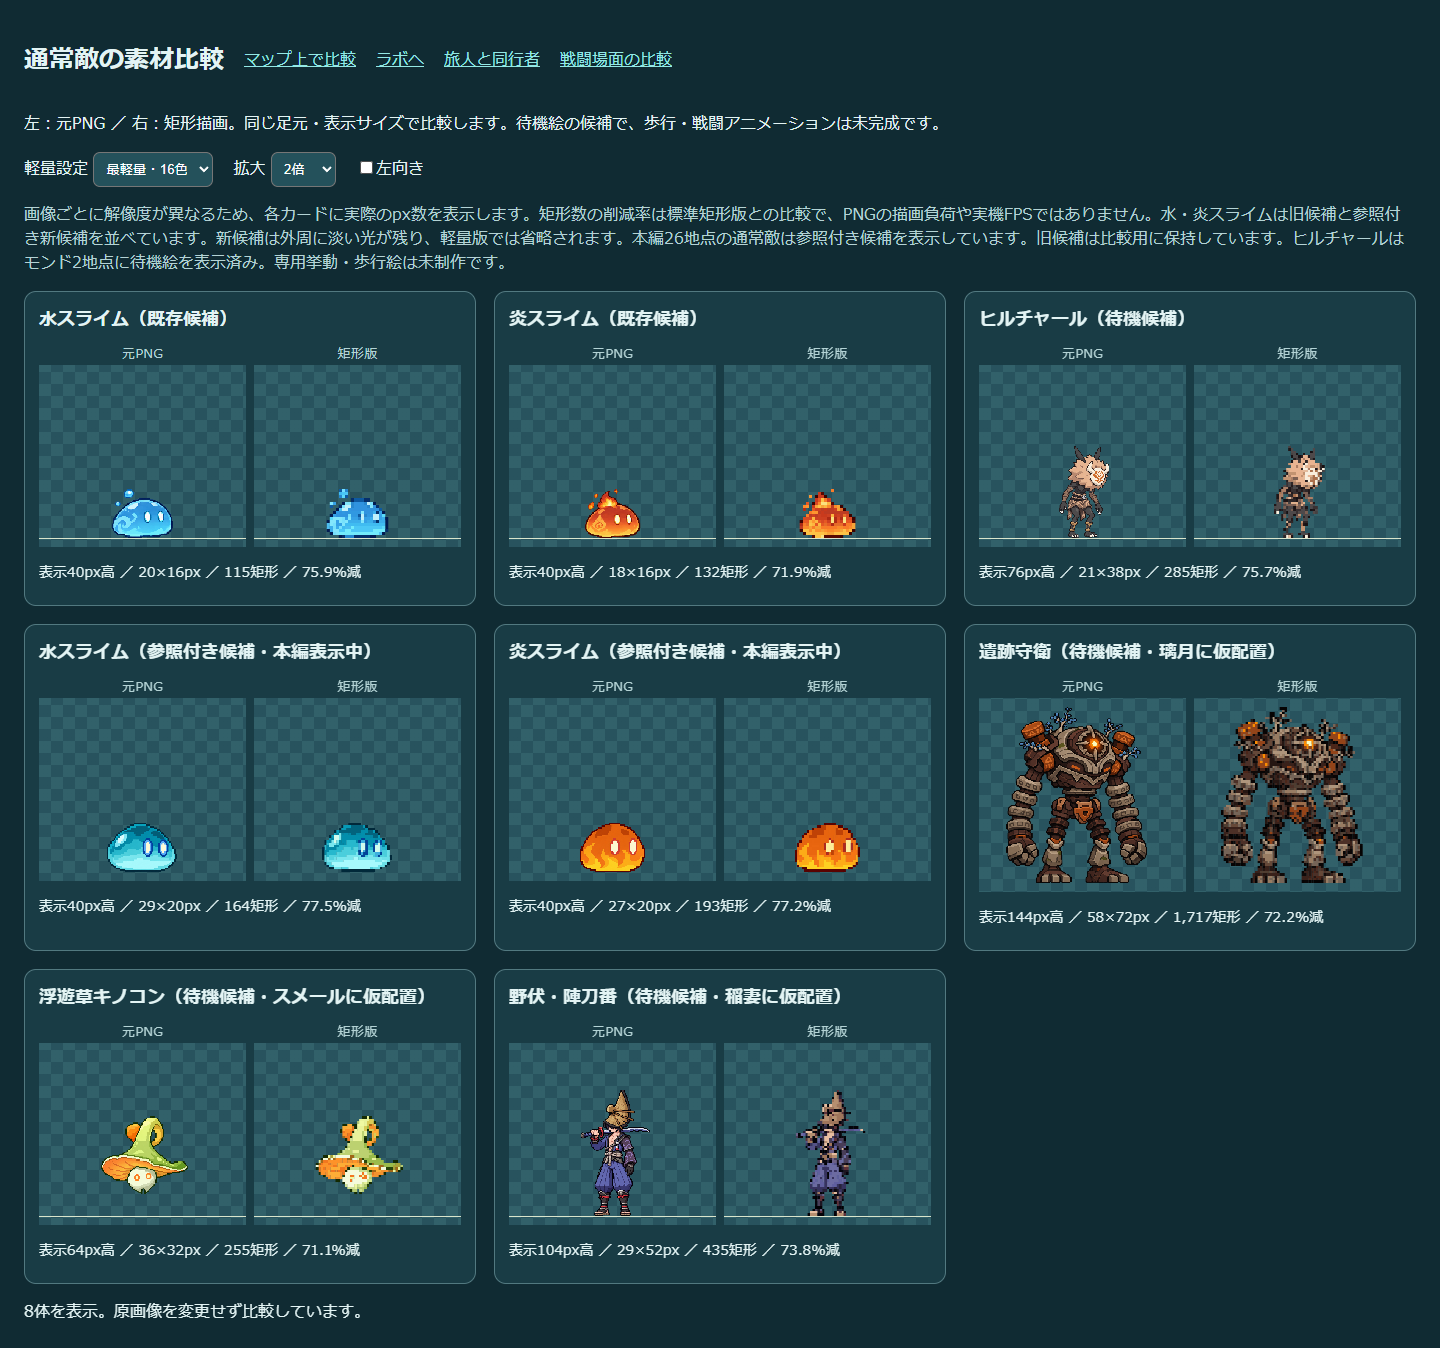
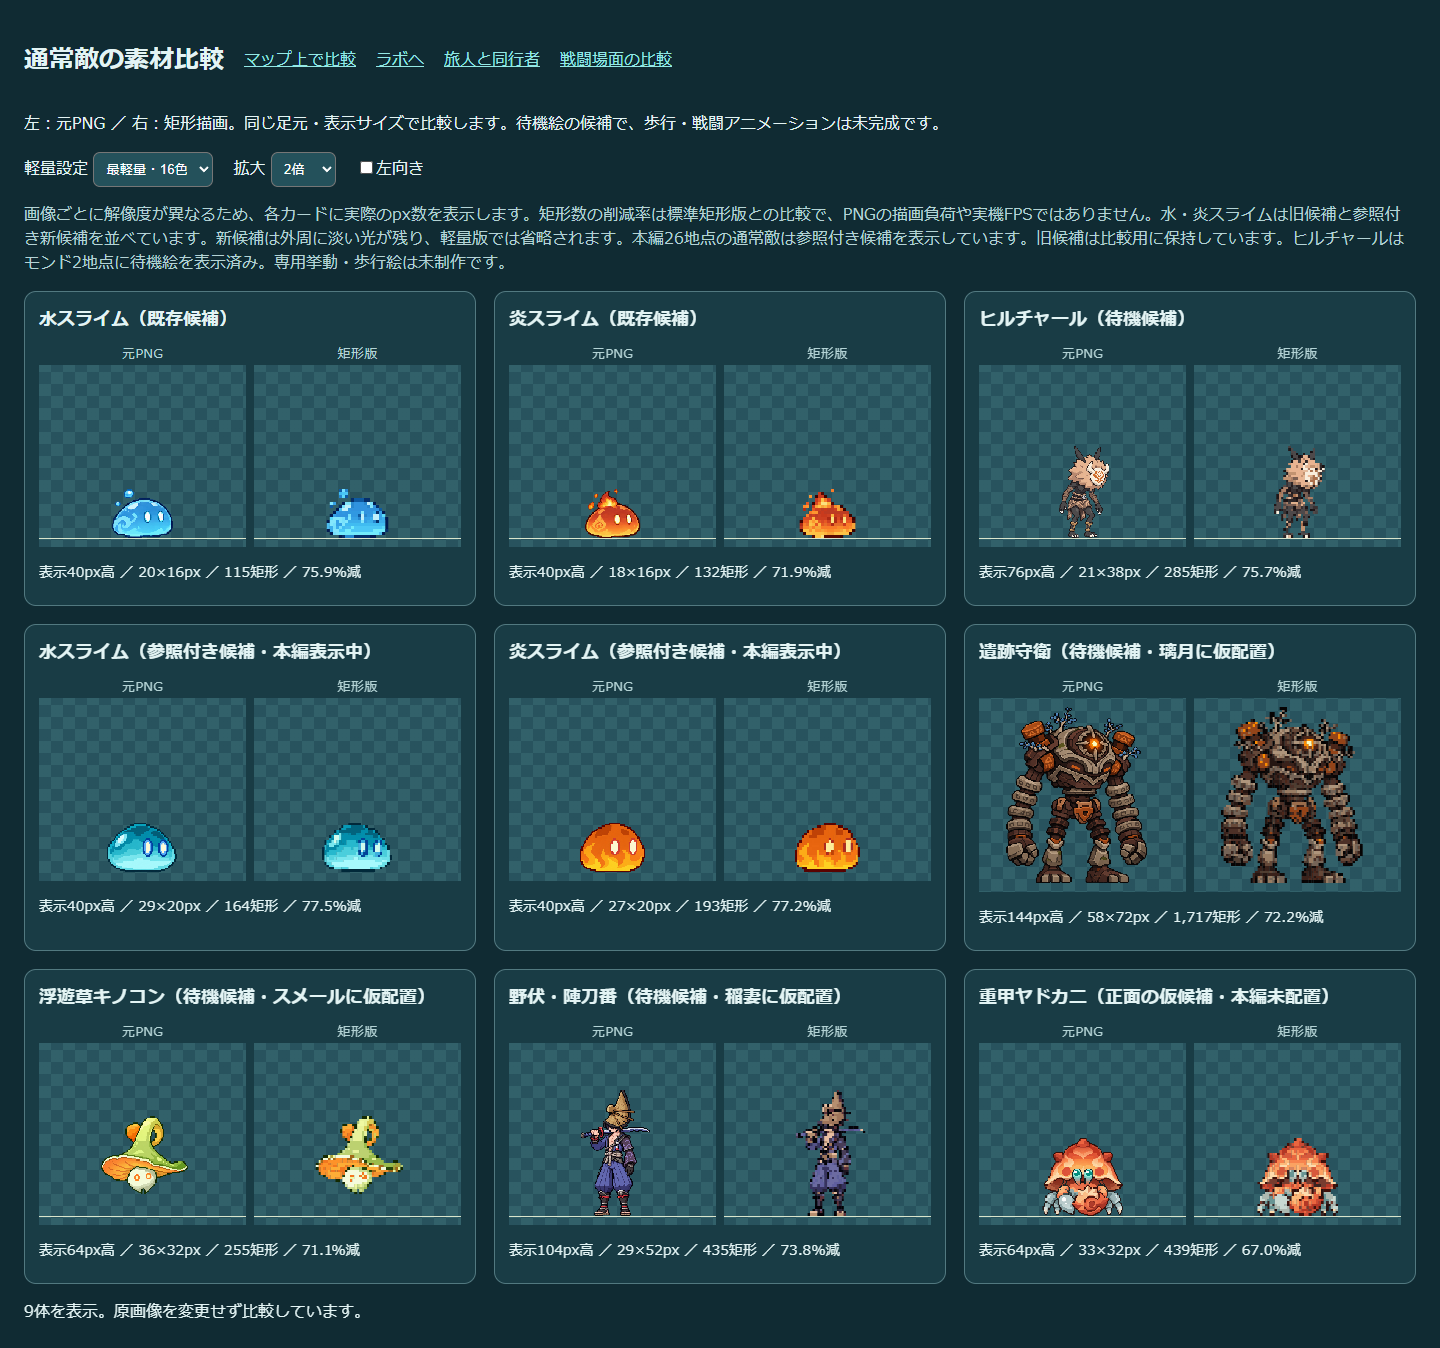
Add provisional orange Armored Crab reference-based art

Changed region(s): [[0.6562, 0.7166, 1.0, 0.9347]]

diff --git a/map-art.html b/map-art.html
@@ -3,7 +3,7 @@
 <header><h1>マップと敵の配置プレビュー</h1><a href="index.html">ラボ</a><a href="enemies-art.html">敵素材</a><a href="characters-art.html">旅人と同行者</a></header>
 <p>本編の仮地点・足場に、敵の待機絵を重ねて比較します。背景は仮画像、本番は3Dを想定しています。ここでの配置案は戦闘やセーブには反映されません。</p>
 <div class="controls"><label>地点 <select id="node"></select></label><label>軽量設定 <select id="profile"><option value="legacy">標準</option><option value="h48c32">中間・32色</option><option value="h32c16" selected>最軽量・16色</option></select></label><label>カメラ <input id="camera" type="range" min="0" value="0" step="1"><output id="cameraValue">0</output></label></div>
-<p id="context" class="note"></p><div class="controls"><label>追加する敵 <select id="species"><option value="nobushi">野伏・陣刀番（待機候補）</option><option value="dendro-fungus">浮遊草キノコン（待機候補）</option><option value="ruin-guard">遺跡守衛（待機候補）</option><option value="hilichurl" selected>ヒルチャール</option><option value="hydro-slime">水スライム（旧候補）</option><option value="pyro-slime">炎スライム（旧候補）</option><option value="hydro-slime-reference">水スライム（参照付き新候補）</option><option value="pyro-slime-reference">炎スライム（参照付き新候補）</option></select></label><button id="loadLive">この地点の本編配置を読み込む</button><button id="undo">この地点の編集を取り消す</button><button id="reset">この地点の初期案へ戻す</button><button id="export">配置案をJSON保存</button></div>
+<p id="context" class="note"></p><div class="controls"><label>追加する敵 <select id="species"><option value="armored-crab">重甲ヤドカニ（正面の仮候補）</option><option value="nobushi">野伏・陣刀番（待機候補）</option><option value="dendro-fungus">浮遊草キノコン（待機候補）</option><option value="ruin-guard">遺跡守衛（待機候補）</option><option value="hilichurl" selected>ヒルチャール</option><option value="hydro-slime">水スライム（旧候補）</option><option value="pyro-slime">炎スライム（旧候補）</option><option value="hydro-slime-reference">水スライム（参照付き新候補）</option><option value="pyro-slime-reference">炎スライム（参照付き新候補）</option></select></label><button id="loadLive">この地点の本編配置を読み込む</button><button id="undo">この地点の編集を取り消す</button><button id="reset">この地点の初期案へ戻す</button><button id="export">配置案をJSON保存</button></div>
 <label>保存した配置案を読み込む <input id="import" type="file" accept=".json,application/json"></label><p id="fileStatus" role="status" class="note">読み込むと全地点の編集案を置き換えます。必要な案は先にJSON保存してください。</p>
 <p class="note">「本編配置を読み込む」でこの地点の編集案を置き換えます。取り消しで元の案に戻せます。画像をクリックすると、近い足場の上へ敵を追加できます。別地点へ移っても案はこの画面内で保持します。再読み込みで初期案へ戻ります。必要な案はJSON保存してください。</p>
 <main><figure><figcaption>元PNG</figcaption><canvas id="png" width="960" height="540"></canvas></figure><figure><figcaption>軽量矩形版</figcaption><canvas id="rect" width="960" height="540"></canvas></figure></main>

diff --git a/characters-art.js b/characters-art.js
@@ -14,6 +14,7 @@ try{
   await add('ruin-guard','遺跡守衛（待機候補・璃月に仮配置）',await json('assets/ruin-guard-idle-sprites.json'),144);
   await add('dendro-fungus','浮遊草キノコン（待機候補・スメールに仮配置）',await json('assets/dendro-fungus-idle-sprites.json'),64);
   await add('nobushi','野伏・陣刀番（待機候補・稲妻に仮配置）',await json('assets/nobushi-idle-sprites.json'),104);
+  await add('armored-crab','重甲ヤドカニ（正面の仮候補・本編未配置）',await json('assets/armored-crab-idle-sprites.json'),64);
  }else{
  await add('traveler','旅人',await json('assets/traveler-idle-sprites.json'),88);
  await add('amber','アンバー',await json('assets/amber-idle-sprites.json'),88);

diff --git a/map-art.js b/map-art.js
@@ -10,6 +10,7 @@ try{
  assets['ruin-guard']={...await json('assets/ruin-guard-idle-sprites.json'),h:144};
  assets['dendro-fungus']={...await json('assets/dendro-fungus-idle-sprites.json'),h:64};
  assets.nobushi={...await json('assets/nobushi-idle-sprites.json'),h:104};
+ assets['armored-crab']={...await json('assets/armored-crab-idle-sprites.json'),h:64};
  assets.hilichurl={...await json('assets/hilichurl-idle-sprites.json'),h:76};
  for(const element of ['hydro','pyro'])assets[`${element}-slime-reference`]={...await json(`assets/${element}-slime-idle-sprites.json`),h:40};
  for(const [id,data] of Object.entries(assets)){const layout=layouts[id.replace('-reference','')];data.h=layout.height;data.hover=layout.hover}

diff --git a/CHAT_HANDOFF.md b/CHAT_HANDOFF.md
@@ -210,3 +210,5 @@ map-art.html追加: 本編61仮地点の足場/背景を選択し、元PNGと軽
 2026-11-17: 野伏・陣刀番の参照付き待機絵を追加。HoYoWiki2229の立ち絵と別姿勢カード絵を直接確認し生成へ使用（3枚目は同立ち絵）。MMD API2候補404、背面3D未確認。104/78/52px=1658/958/435矩形（最軽量73.76%減、FPSではない）。稲妻海辺の街道へ1体仮配置、門表示との重なりを目視で見つけ初期x620へ移動。8敵ギャラリー3設定3倍率左右/390px、6敵素材3設定の接地/非表示/描画非干渉、61地点配置/読込変換、story19件と配置編集61地点を検査。実Lua静止フレームを本編ブラウザでPNG/最軽量描画し目視。笠/刀/配色は残るが袖模様/紐/指は最軽量で省略。共通敵の移動・判定・技のまま、専用歩行/攻撃/実機未実装。 根拠 evidence/nobushi-reference-audit.json。
 
 2026-11-17: 門の塗りつぶしが敵や味方を隠す問題を修正。story.luaの門を3px輪郭へ変え、全キャラ/敵/エフェクトより前に描画命令を置き背面表示。門の位置・到達条件・隠し入口の発見条件・技は変更なし。61地点×PNG/矩形の輪郭/描画順/command数を検査、story19件、6敵素材/61地点配置も通過。野伏を稲妻の門x720へ意図的に重ねた実Lua静止フレームのPNG/最軽量をブラウザ描画し、体が隠れないことを目視。さらにブラウザの実キー操作でモンドの町から街道門を通過し6体の表示を確認。全地点連続プレイ/本番3Dの検証ではない。 根拠 evidence/story-portal-render.json, evidence/portal-overlap-rect.png。
+
+2026-11-17: 重甲ヤドカニ橙色型の正面待機候補を追加。HoYoWiki4058の2フレームGIFを直接確認し、橙色と緑色を区別。橙色フレームとTH.GLの同姿アイコンを生成参照に使用。全身/脚先/背面は資料不足で、生成した脚先は推定と明記。MMD API2候補404。64/48/32px=1331/867/439矩形（最軽量67.02%減、FPSではない）。9候補ギャラリー3設定3倍率左右/390px、フォンテーヌ配置3設定/JSON書出読戻、既存61地点編集検査を通過。PNG/最軽量を目視し殻の橙色と大きな爪は残るが青緑の目/脚細部は弱い。素材比較と配置プレビューのみ、本編未配置・技変更なし。 根拠 evidence/armored-crab-reference-audit.json。
